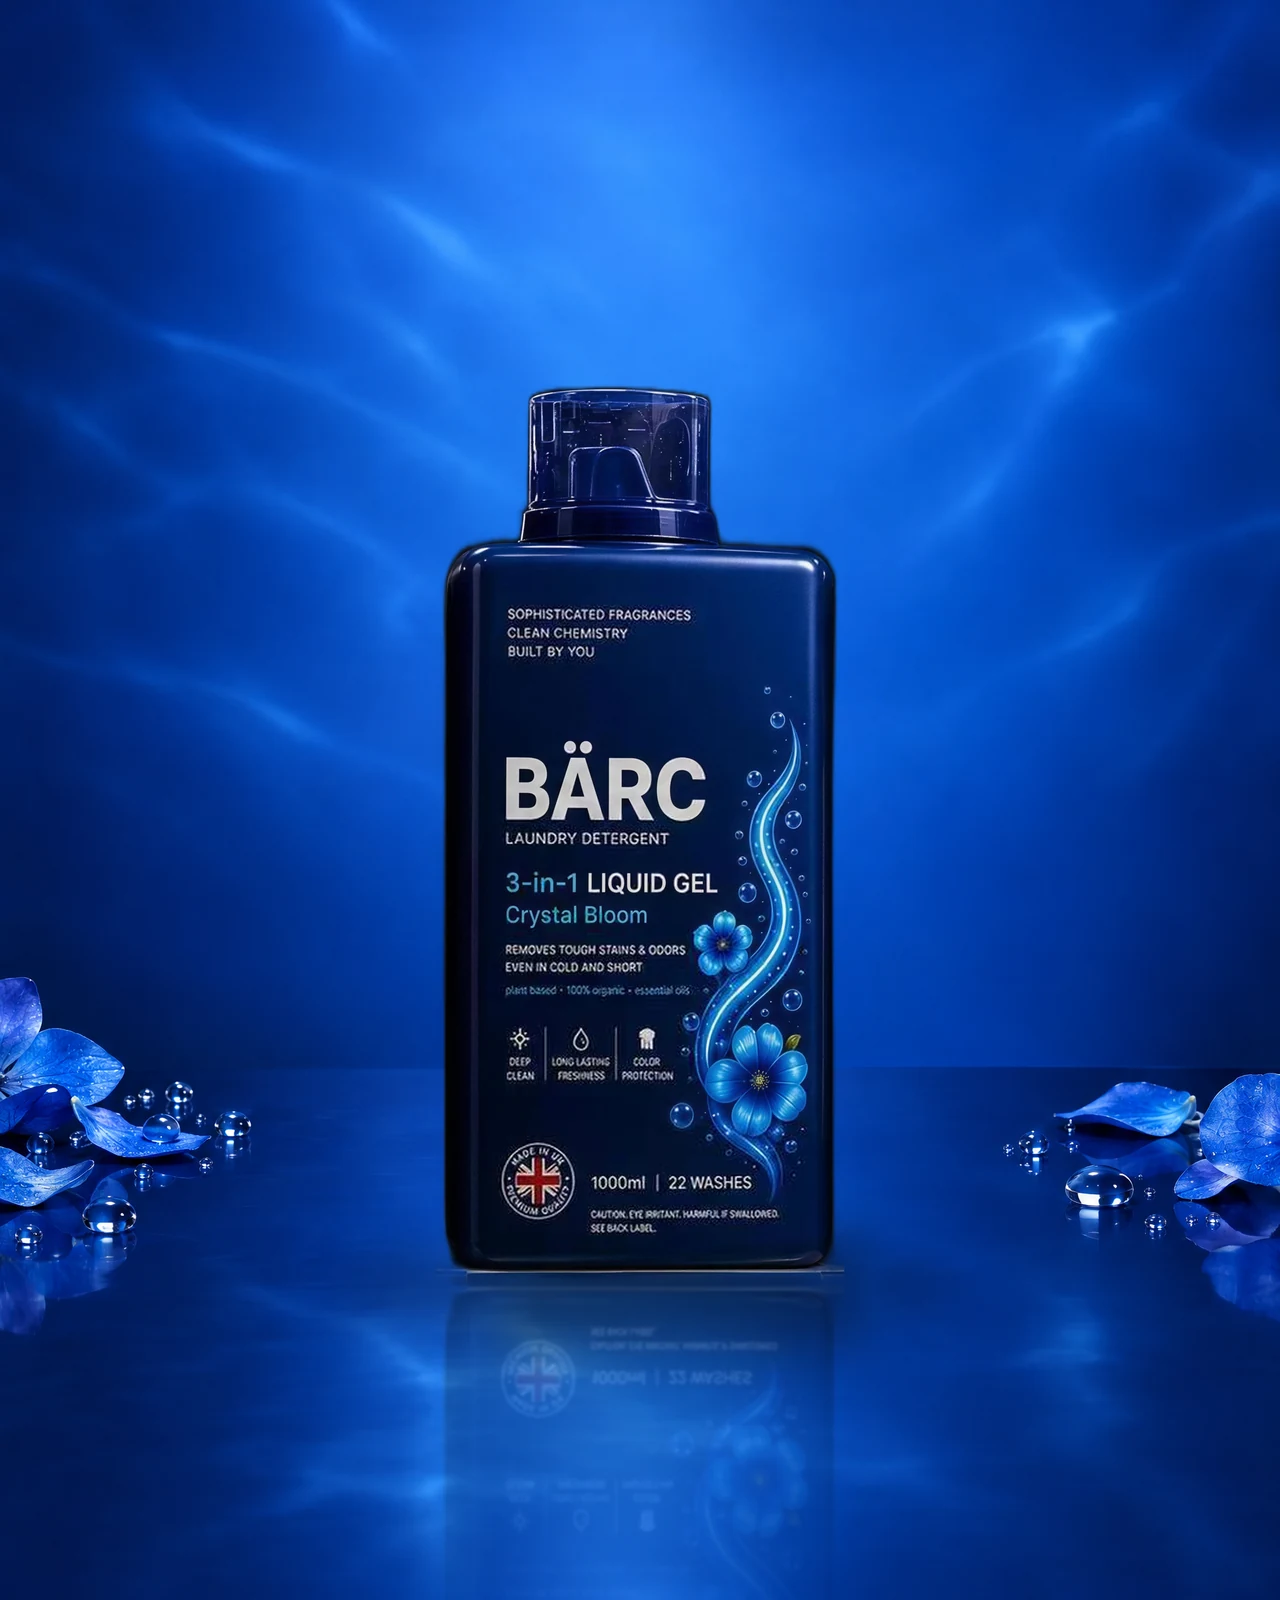
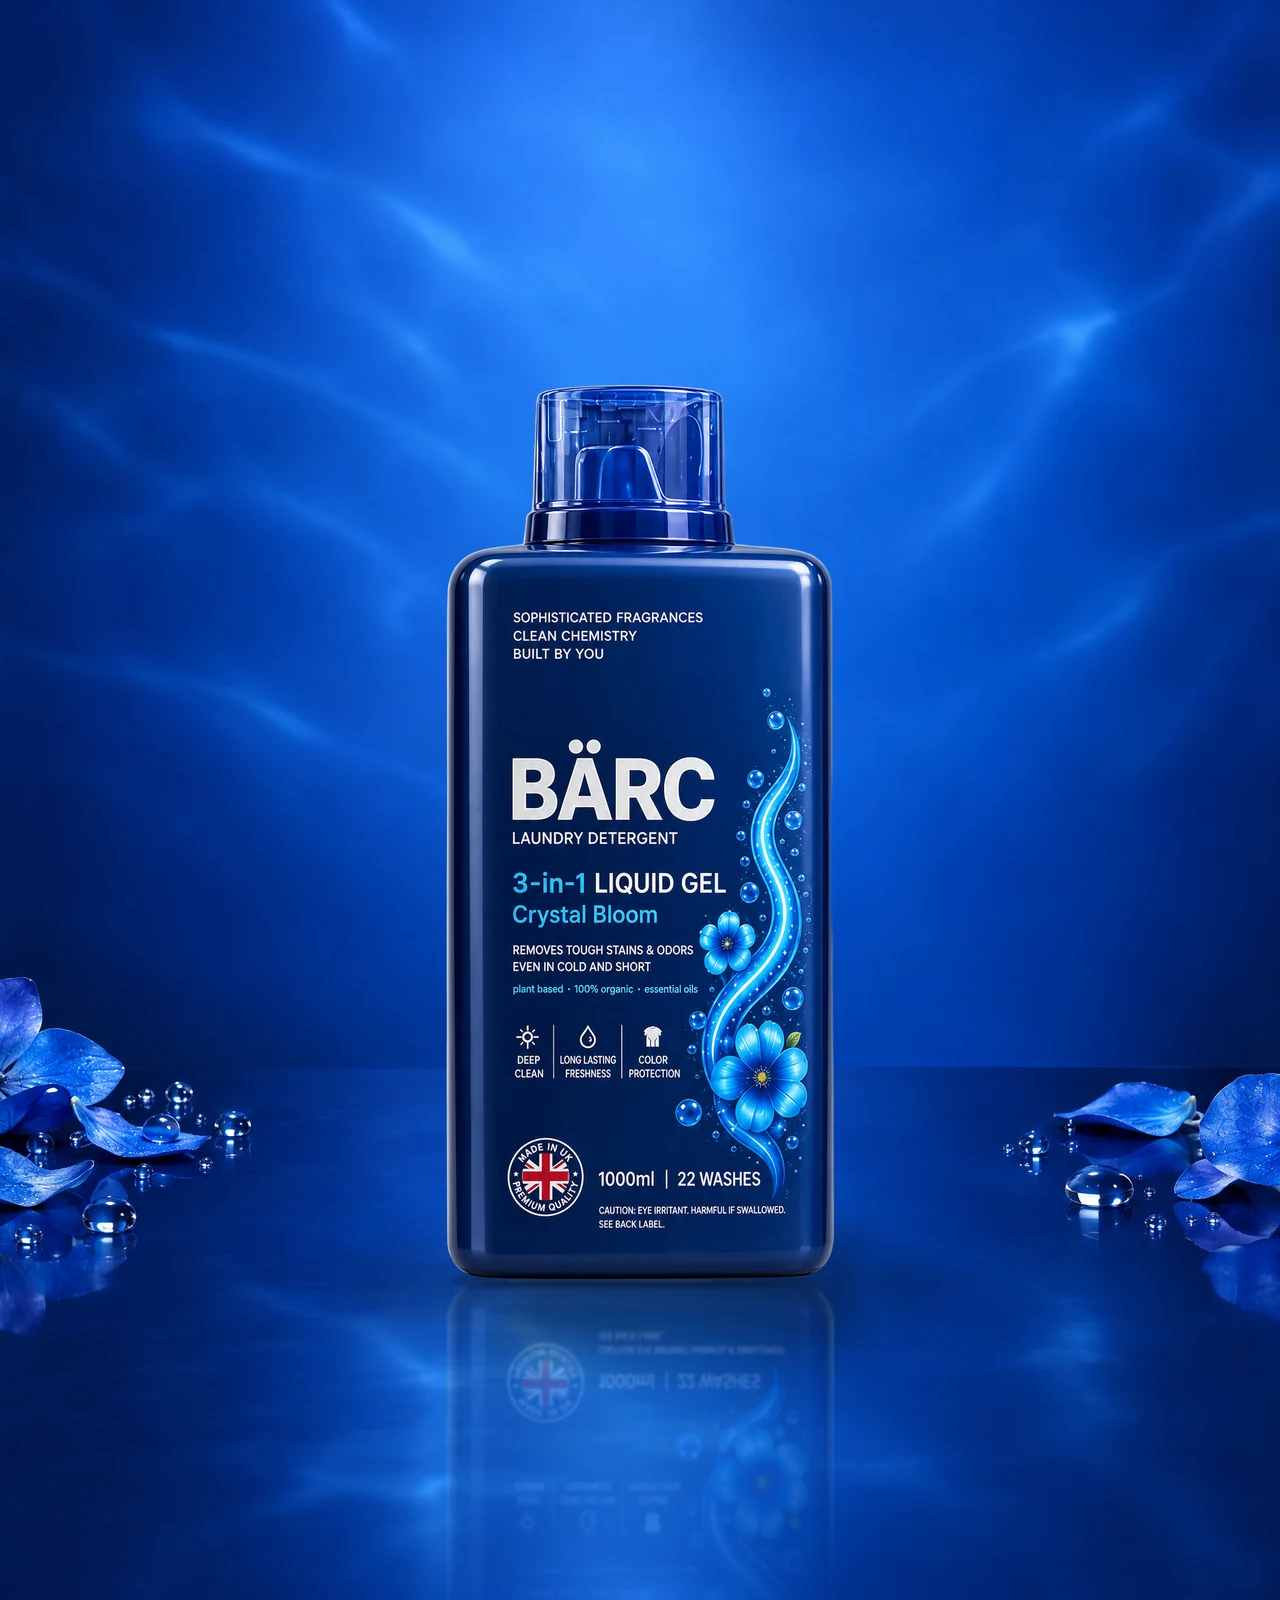
Karuselda barcha mahsulotlar; yangi turkumlar qadog'i Higgsfield'da realistik qayta yaratildi
- Bosh karusel 10 mahsulotni aylantiradi (gel «GEL AMETHYST» bo'lib ajraladi), har birining rangi va musiqasi
- Kapsula hikoyasi va iforlar qatori faqat kapsulalarda; boshqa mahsulot tanlangan bo'lsa oxirgi kapsulaga qaytadi
- 7 qadoq GPT Image 2.5 bilan studiya suratiga aylantirildi, yozuvlar bittalab tekshirildi
  (SOLUPERFUME va «plant based» qatori qayta generatsiya qilinib to'g'rilandi)
- Tabiiy sahnalar yangi qadoqlar bilan qayta yig'ildi, galereyaga studiya surati qo'shildi

Changed region(s): [[0.3438, 0.2188, 0.6562, 0.9062], [0.4062, 0.8438, 0.4688, 0.875]]

diff --git a/public/assets/app.js b/public/assets/app.js
@@ -22,8 +22,8 @@ const TH = {
   booster: { bg: "#2B0F33", bg2: "#120515", surface: "#8A3E9E", accent: "#F0B6F0", glow: "#C764D8" },
 };
 const POD_GAL = (id, photos) => [...photos, [`${id}-studio.webp`, "cap.podStudio"], [`${id}-room.webp`, "cap.podRoom"], [`${id}-scent.webp`, `prod.${id}.g1`]];
-const GEL_GAL = (id) => [[`${id}-studio.webp`, "cap.gelStudio"], ["gel-room.webp", "cap.gelRoom"], ["gel-photo.jpg", "cap.gelPhoto"]];
-const POW_GAL = (id) => [[`${id}-studio.webp`, "cap.powderStudio"], ["powder-room.webp", "cap.powderRoom"], ["powder-photo.jpg", "cap.powderPhoto"]];
+const GEL_GAL = (id) => [[`${id}-studio.webp?v=2`, "cap.gelStudio"], [`${id}-shot.webp`, "cap.shot"], ["gel-room.webp?v=2", "cap.gelRoom"], ["gel-photo.jpg", "cap.gelPhoto"]];
+const POW_GAL = (id) => [[`${id}-studio.webp?v=2`, "cap.powderStudio"], [`${id}-shot.webp`, "cap.shot"], ["powder-room.webp?v=2", "cap.powderRoom"], ["powder-photo.jpg", "cap.powderPhoto"]];
 const FALLBACK = [
   ["amethyst", "Amethyst", "pods", POD_GAL("amethyst", [["amethyst-photos-2.webp", "cap.photosBig"], ["amethyst-photos-1.webp", "cap.photos"]])],
   ["crystal", "Crystal Bloom", "pods", POD_GAL("crystal", [["crystal-photos.webp", "cap.photos"]])],
@@ -34,9 +34,9 @@ const FALLBACK = [
   ["powder-ocean", "Ocean Fresh", "powder", POW_GAL("powder-ocean")],
   ["powder-purple", "Purple Splash", "powder", POW_GAL("powder-purple")],
   ["oxi", "OXI Power", "oxi", [["oxi-photo-front.webp", "cap.oxiFront"], ["oxi-photo-back-1.webp", "cap.oxiBack"], ["oxi-photo-back-2.webp", "cap.oxiBack"],
-    ["oxi-photo-back-3.webp", "cap.oxiBack30"], ["oxi-studio.webp", "cap.oxiStudio"], ["oxi-room.webp", "cap.oxiRoom"]]],
-  ["booster", "Endless Scent", "booster", [["booster-studio.webp", "cap.boosterStudio"], ["booster-room.webp", "cap.boosterRoom"], ["booster-photo.jpg", "cap.boosterPhoto"]]],
-].map(([id, name, line, gal]) => ({ id, name, line, theme: TH[id], img: `assets/img/${id}.webp?v=2`, atmo: `assets/img/${id}-atmo.webp`,
+    ["oxi-photo-back-3.webp", "cap.oxiBack30"], ["oxi-shot.webp", "cap.shot"], ["oxi-studio.webp?v=2", "cap.oxiStudio"], ["oxi-room.webp?v=2", "cap.oxiRoom"]]],
+  ["booster", "Endless Scent", "booster", [["booster-studio.webp?v=2", "cap.boosterStudio"], ["booster-shot.webp", "cap.shot"], ["booster-room.webp?v=2", "cap.boosterRoom"], ["booster-photo.jpg", "cap.boosterPhoto"]]],
+].map(([id, name, line, gal]) => ({ id, name, line, theme: TH[id], img: `assets/img/${id}.webp?v=${line === "pods" ? 2 : 3}`, atmo: `assets/img/${id}-atmo.webp`,
   gallery: gal.map(([f, k]) => ({ src: `assets/img/${f}`, cap: CAP(k) })) }));
 
 async function loadSite() {
@@ -72,23 +72,28 @@ const mq = matchMedia("(max-width: 860px)");
 let isMobile = mq.matches;
 
 /* ---------------- Turkumlar ----------------
-   Kapsulalar (pods) — bosh karusel va iforlar qatori. Qolgan turkumlar — brend qatorida va o'z bloklarida. */
+   Bosh karusel — barcha mahsulotlar (kapsuladan ifor kuchaytirgichgacha). Iforlar qatori va kapsula
+   hikoyasi — faqat kapsulalar. Qolgan turkumlar brend qatorida va o'z bloklarida ham turadi. */
 const LINE_ORDER = ["pods", "gel", "powder", "oxi", "booster"];
 const LINE_SEAT = ["booster", "gel", "pods", "powder", "oxi"]; // brend qatorida chapdan o'ngga
 const lineIdx = (l) => PRODUCTS.map((p, i) => (p.line === l ? i : -1)).filter((i) => i >= 0);
-let CAR = lineIdx("pods"); if (!CAR.length) CAR = PRODUCTS.map((_, i) => i);
+let POD = lineIdx("pods"); if (!POD.length) POD = PRODUCTS.map((_, i) => i);
+const P = POD.length;
+const podIdx = (i) => POD.indexOf(i);
+const isPod = (i) => podIdx(i) >= 0;
+const CAR = PRODUCTS.map((_, i) => i);
 const C = CAR.length;
 const carIdx = (i) => CAR.indexOf(i);
-const LINES = C === N ? [] : LINE_ORDER.filter((l) => l !== "pods" && lineIdx(l).length);
+const LINES = P === N ? [] : LINE_ORDER.filter((l) => l !== "pods" && lineIdx(l).length);
 const FAM = LINE_SEAT.filter((l) => lineIdx(l).length);
 const REP_PREF = { gel: "gel-original", powder: "powder-ocean" };
 const OFF = 6; // karuseldan tashqari — ko'rinmaydi
 const pad2 = (n) => String(n).padStart(2, "0");
 
 /* ---------------- Store ---------------- */
-const store = { active: CAR[0], car: CAR[0], theme: CAR[0], section: "brand", lang: "uz", soundOn: false, view: "home", hover: -1, loaded: false, variant: {} };
+const store = { active: POD[0], car: POD[0], pod: POD[0], theme: POD[0], section: "brand", lang: "uz", soundOn: false, view: "home", hover: -1, loaded: false, variant: {} };
 function lineLead(l) {
-  if (l === "pods") return CAR.includes(store.car) ? store.car : CAR[0];
+  if (l === "pods") return isPod(store.pod) ? store.pod : POD[0];
   const ids = lineIdx(l), pref = PRODUCTS.findIndex((p) => p.id === REP_PREF[l]);
   return ids.includes(pref) ? pref : ids[0];
 }
@@ -193,14 +198,16 @@ function slotTarget(j, a) {
   const cj = carIdx(j); if (cj < 0) return OFF;
   let d = (cj - ca + C) % C; if (d > C / 2) d -= C; return d;
 }
-const slots = PRODUCTS.map((_, i) => slotTarget(i, CAR[0]));
+const slots = PRODUCTS.map((_, i) => slotTarget(i, POD[0]));
 const hoverAmt = PRODUCTS.map(() => 0);
 const wasVis = PRODUCTS.map(() => true);
 const hK = PRODUCTS.map(() => 1), wK = PRODUCTS.map(() => 1); // qadoqning ko'rinadigan bo'yi/eni (.prod qutisiga nisbatan)
 const stepCar = (dlt) => CAR[(carIdx(store.car) + dlt + C) % C];
-// Qatorda (range) mahsulotlar ko'p bo'lsa — oraliq va o'lcham moslashadi
-const rowGap = () => isMobile ? Math.min(31, 76 / Math.max(1, C - 1)) : Math.min(28, 72 / Math.max(1, C - 1));
-const rowK = C <= 3 ? 1 : 3 / C;
+// Qatorda (range, faqat kapsulalar) mahsulotlar ko'p bo'lsa — oraliq va o'lcham moslashadi
+const rowGap = () => isMobile ? Math.min(31, 76 / Math.max(1, P - 1)) : Math.min(28, 72 / Math.max(1, P - 1));
+const rowK = P <= 3 ? 1 : 3 / P;
+// Karuseldagi katta nom: kapsula bilan bir xil nomli gel «GEL AMETHYST» bo'lib chiqadi
+const heroName = (p) => { const pre = p.line === "pods" ? "" : (t(`line.${p.line}.top`) || "").replace(/^BÄRC\s*/i, ""); return (pre ? pre + " " : "") + p.name; };
 
 /* ---------------- Render (har kadr) ---------------- */
 (() => {
@@ -210,6 +217,7 @@ const rowK = C <= 3 ? 1 : 3 / C;
     stage.insertAdjacentHTML("beforeend", `<i class="floor-shadow"></i>`);
     stage.insertAdjacentHTML("beforeend", `<div class="prod" data-i="${i}"><img src="${p.img}" alt="" draggable="false"></div>`);
   });
+  dots.classList.toggle("is-many", C > 5);
   dots.innerHTML = CAR.map((i) => `<button type="button" role="tab" data-go="${i}" aria-label="${PRODUCTS[i].name.replace(/"/g, "")}" data-cursor></button>`).join("");
   // Kontaktlar (admin → Sozlamalar)
   const c = SITE.contacts, links = [];
@@ -248,14 +256,14 @@ function render() {
   const w = Math.max(R.fam, R.set), useFam = R.fam >= R.set;
   prodEls.forEach((el, i) => {
     // Karuselda — faol mahsulotga nisbatan; qatorda — o'z tartibi bo'yicha, markazdan teng
-    const ci = carIdx(i);
-    const o = lerp(slots[i], ci >= 0 ? ci - (C - 1) / 2 : OFF, R.row), ao = Math.abs(o), c = clamp(1 - ao, 0, 1);
+    const pi = podIdx(i);
+    const o = lerp(slots[i], pi >= 0 ? pi - (P - 1) / 2 : OFF, R.row), ao = Math.abs(o), c = clamp(1 - ao, 0, 1);
     hoverAmt[i] = lerp(hoverAmt[i], store.hover === i ? 1 : 0, k);
     const bob = reduced ? 0 : Math.sin(t * 1.1 + i * 1.7) * 10 * R.bob;
     let X = d * (R.x * c + o * gap) * vw;
     let yB = (R.y * lerp(1, c, R.row) + o * R.row * -4) * vh; // karuselda yon qadoqlar ham markaz bilan bir chiziqda
     let sc = lerp(sideS, R.scale, c) * (1 + hoverAmt[i] * .07) * lerp(1, rowK, R.row);
-    let op = lerp(sideOp, 1, c) * R.op * lerp(clamp(2 - ao, 0, 1), clamp(C / 2 + .6 - ao, 0, 1), R.row);
+    let op = lerp(sideOp, 1, c) * R.op * lerp(clamp(2 - ao, 0, 1), clamp(P / 2 + .6 - ao, 0, 1), R.row);
     let blur = lerp(sideBlur, 0, c);
     let rz = d * (R.rz * c + o * R.row * 3), ry = d * R.ry * c, z = 10 - Math.round(Math.min(ao, 3) * 3);
     // Brend qatori yoki turkum bloki: har qadoq o'z joyida, pastki cheti bitta polda
@@ -407,16 +415,17 @@ function themeTransition(i, instant) {
 function hexRgb(h) { const n = parseInt(h.slice(1), 16); return { r: n >> 16, g: (n >> 8) & 255, b: n & 255 }; }
 
 /* ---------------- Faol mahsulot ---------------- */
-const heroName = $("#hero-name");
+const heroNameEl = $("#hero-name");
 function setActive(i, opts = {}) {
   i = ((i % N) + N) % N;
   const prev = store.active;
   if (i === prev && !opts.force) return;
   store.active = i;
   // Kapsula ↔ boshqa turkum: karusel o'rinlari sakrab almashadi (sahnada baribir ko'rinmaydi)
-  const cross = carIdx(prev) < 0 || carIdx(i) < 0;
-  const carChanged = carIdx(i) >= 0 && i !== store.car;
-  if (carIdx(i) >= 0) store.car = i;
+  const cross = carIdx(prev) < 0 || carIdx(i) < 0 || opts.snap;
+  const carChanged = i !== store.car;
+  store.car = i;
+  if (isPod(i)) store.pod = i;
   PRODUCTS.forEach((_, j) => {
     const from = slots[j], to = slotTarget(j, i);
     gsap.killTweensOf(slots, String(j));
@@ -432,7 +441,7 @@ function setActive(i, opts = {}) {
     }
   });
   themeTransition(i, opts.instant);
-  if (carChanged || opts.force) { updateHeroText(!opts.instant); FAMP = famLayout(); renderBrand(); }
+  if (carChanged || opts.force) { updateHeroText(!opts.instant && !opts.snap); FAMP = famLayout(); renderBrand(); }
   updateProductText();
   renderRange();
   tick();
@@ -446,19 +455,21 @@ const variantOf = (p) => { const v = packsOf(p); return v[clamp(store.variant[p.
 function updateHeroText(animate) {
   const p = PRODUCTS[store.car];
   const swap = () => {
-    heroName.textContent = p.name.toUpperCase();
-    heroName.parentElement.style.fontSize = `${Math.min(21, 90 / (p.name.length * .56)).toFixed(2)}vw`;
+    const nm = heroName(p);
+    heroNameEl.textContent = nm.toUpperCase();
+    heroNameEl.parentElement.style.fontSize = `${Math.min(21, 90 / (nm.length * .56)).toFixed(2)}vw`;
   };
   if (animate && !reduced) {
     gsap.timeline()
-      .to(heroName, { yPercent: -40, opacity: 0, duration: .3, ease: "power2.in" })
+      .to(heroNameEl, { yPercent: -40, opacity: 0, duration: .3, ease: "power2.in" })
       .add(swap)
-      .fromTo(heroName, { yPercent: 40, opacity: 0 }, { yPercent: 0, opacity: 1, duration: .55, ease: EASE_IN });
+      .fromTo(heroNameEl, { yPercent: 40, opacity: 0 }, { yPercent: 0, opacity: 1, duration: .55, ease: EASE_IN });
   } else swap();
   $("#hero-line").textContent = t(`prod.${p.id}.line`);
-  $("#peek-prev").textContent = PRODUCTS[stepCar(-1)].name;
-  $("#peek-next").textContent = PRODUCTS[stepCar(1)].name;
+  $("#peek-prev").textContent = heroName(PRODUCTS[stepCar(-1)]);
+  $("#peek-next").textContent = heroName(PRODUCTS[stepCar(1)]);
   $("#hero-idx").textContent = `${pad2(carIdx(store.car) + 1)} / ${pad2(C)}`;
+  $("#hero-kick").textContent = p.line === "pods" ? t("hero.kicker") : [t(`line.${p.line}.short`), lt(p.line, "meta")].filter(Boolean).join(" · ");
   $$(".hero-dots [data-go]").forEach((b) => b.setAttribute("aria-selected", String(+b.dataset.go === store.car)));
 }
 function updateProductText() {
@@ -495,7 +506,7 @@ const rangeHits = $("#range-hits");
 function renderRange() {
   if (!rangeHits) return;
   if (!rangeHits.children.length) {
-    rangeHits.innerHTML = CAR.map((j) =>
+    rangeHits.innerHTML = POD.map((j) =>
       `<a class="rhit" href="#/${PRODUCTS[j].id}" data-j="${j}" data-cursor><span class="rhit-label"><span class="rhit-name">${PRODUCTS[j].name}</span><span class="rhit-more mono"></span></span></a>`).join("");
     $$(".rhit", rangeHits).forEach((a) => {
       const j = +a.dataset.j;
@@ -508,7 +519,7 @@ function renderRange() {
   }
   const gap = rowGap();
   $$(".rhit", rangeHits).forEach((a) => {
-    const o = carIdx(+a.dataset.j) - (C - 1) / 2;
+    const o = podIdx(+a.dataset.j) - (P - 1) / 2;
     a.style.left = `calc(50% + ${dirSign() * o * gap}vw)`;
     a.style.top = `calc(50% + ${o * -4}vh)`;
     $(".rhit-more", a).textContent = t("range.more") + " →";
@@ -546,8 +557,17 @@ if (bhits) {
   bhits.addEventListener("pointerleave", () => { store.hover = -1; themeTransition(sectionTheme()); });
   bhits.addEventListener("click", (e) => {
     const a = e.target.closest('.bhit[data-line="pods"]'); if (!a) return;
-    e.preventDefault(); store.hover = -1; scrollTo(topOf($("#s-hero")));
+    e.preventDefault(); store.hover = -1; toPods();
   });
+}
+// «Kapsula» va «Pastga — kapsulalardan boshlaymiz»: karusel oxirgi tanlangan kapsulada ochiladi
+function toPods() {
+  if (!isPod(store.active)) setActive(store.pod);
+  scrollTo(topOf($("#s-hero")));
+}
+{
+  const bs = $(".brand-scroll");
+  if (bs) bs.addEventListener("click", (e) => { e.preventDefault(); toPods(); });
 }
 
 const linesBox = $("#lines");
@@ -588,6 +608,7 @@ function renderLineChips() {
     el.innerHTML = v.map((x) => `<span>${esc(x)}</span>`).join("");
   });
 }
+const POD_SECS = ["zoom", "b1", "b2", "b3", "b4", "solo", "usage", "range"];
 // Bo'limga mos mavzu: turkum blokida — o'sha turkum, boshqa joyda — faol mahsulot
 const sectionTheme = () => (store.view === "home" && store.section.startsWith("line-") ? lineLead(store.section.slice(5)) : store.active);
 
@@ -684,6 +705,8 @@ function setSection(label) {
   $$("button", bnav).forEach((b, i) => b.classList.toggle("is-active", i === bi));
   if (store.view !== "home") return;
   if (label.startsWith("line-")) applyLineLayout(label.slice(5));
+  // «Nega kapsula?» … «Iforlar» — kapsula hikoyasi: karuselda boshqa mahsulot tanlangan bo'lsa, oxirgi kapsulaga qaytadi
+  if (POD_SECS.includes(label) && !isPod(store.active)) { R.op = 0; setActive(store.pod, { snap: true }); }
   if (store.hover < 0) themeTransition(sectionTheme());
 }
 $$("button", bnav).forEach((b, i) => b.addEventListener("click", () => scrollTo(topOf($(`#s-b${i + 1}`)))));
@@ -1300,11 +1323,11 @@ async function boot() {
   const nav = (navigator.language || "uz").slice(0, 2);
   applyLang(saved || (LANGS.includes(nav) ? nav : "uz"));
   sizeCanvas();
-  setActive(CAR[0], { instant: true, force: true });
+  setActive(POD[0], { instant: true, force: true });
 
   const pctEl = $("#loader-pct"), shown = { v: 0 };
   // Birinchi ekranda ko'rinadiganlar kutiladi, qolganlari fonda yuklanadi
-  const assets = [...new Set([...CAR, ...FAM.map(lineLead)])].map((i) => PRODUCTS[i].img);
+  const assets = [...new Set([...POD, ...FAM.map(lineLead)])].map((i) => PRODUCTS[i].img);
   let done = 0; const total = assets.length + 1;
   const bump = () => { done++; gsap.to(shown, { v: done / total * 100, duration: .6, ease: "power2.out", overwrite: true }); };
   const strokeTo = gsap.quickTo(".ll-stroke", "strokeDashoffset", { duration: .6, ease: "power2.out" });

diff --git a/public/assets/style.css b/public/assets/style.css
@@ -224,6 +224,11 @@ html[lang="ar"] .old s { font-family: var(--f-body); letter-spacing: 0; }
 .hero-dots button { width: 44px; height: 24px; display: grid; place-items: center; }
 .hero-dots button::after { content: ""; width: 24px; height: 2px; background: var(--line); transition: background .4s, width .4s; }
 .hero-dots button[aria-selected="true"]::after { background: #fff; width: 40px; }
+/* Karuselda mahsulot ko'p — nuqtalar ixchamroq */
+.hero-dots.is-many { gap: 2px; }
+.hero-dots.is-many button { width: 28px; }
+.hero-dots.is-many button::after { width: 14px; }
+.hero-dots.is-many button[aria-selected="true"]::after { width: 24px; }
 .scroll-cue { position: absolute; inset-inline-end: var(--s5); bottom: var(--s6); color: var(--muted); margin: 0; writing-mode: vertical-rl; }
 
 /* ---------------- 1-ekran: brend va oila qatori ---------------- */
@@ -448,7 +453,7 @@ html[lang="ar"] #menu a { line-height: 1.3; }
   .hero-name { top: 84px; }
   .brand-top { top: 84px; }
   .brand-k { margin-bottom: var(--s1); }
-  .brand-title { font-size: min(10.4vw, 6.2svh, 56px); }
+  .brand-title { font-size: min(9.2vw, 6.2svh, 56px); }
   .bhit-label { max-width: 24vw; top: calc(100% + var(--s1)); }
   .bhit-label .mono { display: none; }
   .bhit-label b { font-size: var(--t-14); }
@@ -474,6 +479,10 @@ html[lang="ar"] #menu a { line-height: 1.3; }
   .hero-line { font-size: var(--t-16); max-width: 28ch; }
   .hero-bar { bottom: var(--s3); grid-template-columns: 1fr auto; }
   .hero-bar p:first-child { display: none; }
+  .hero-dots.is-many { gap: 0; }
+  .hero-dots.is-many button { width: 20px; }
+  .hero-dots.is-many button::after { width: 10px; }
+  .hero-dots.is-many button[aria-selected="true"]::after { width: 18px; }
   .scroll-cue { display: none; }
   #bnav { inset-inline-end: var(--s2); top: 96px; translate: none; grid-auto-flow: column; gap: var(--s1); }
   #bnav button { width: 40px; height: 40px; }

diff --git a/public/assets/i18n.js b/public/assets/i18n.js
@@ -589,7 +589,8 @@ window.I18N = {
       "cap.oxiRoom": "Oq kiyim oppoq, rangli — yorqin",
       "cap.boosterStudio": "Bir qoshiq — haftalab ifor",
       "cap.boosterRoom": "Choyshab va sochiq doim xushbo‘y",
-      "cap.boosterPhoto": "6 xil ifor va 3 xil hajm"
+      "cap.boosterPhoto": "6 xil ifor va 3 xil hajm",
+      "cap.shot": "Qadoq yaqindan — studiya surati"
     },
 
     ru: {
@@ -738,7 +739,8 @@ window.I18N = {
       "cap.oxiRoom": "Белое — белоснежное, цветное — яркое",
       "cap.boosterStudio": "Одна ложка — аромат на недели",
       "cap.boosterRoom": "Постельное и полотенца всегда свежие",
-      "cap.boosterPhoto": "6 ароматов и 3 размера"
+      "cap.boosterPhoto": "6 ароматов и 3 размера",
+      "cap.shot": "Упаковка крупным планом — студийное фото"
     },
 
     en: {
@@ -887,7 +889,8 @@ window.I18N = {
       "cap.oxiRoom": "Whites whiter, colours brighter",
       "cap.boosterStudio": "One scoop, weeks of freshness",
       "cap.boosterRoom": "Linen and towels that stay fresh",
-      "cap.boosterPhoto": "6 scents and 3 sizes"
+      "cap.boosterPhoto": "6 scents and 3 sizes",
+      "cap.shot": "The pack up close — studio shot"
     },
 
     ar: {
@@ -1036,7 +1039,8 @@ window.I18N = {
       "cap.oxiRoom": "الأبيض ناصع والألوان زاهية",
       "cap.boosterStudio": "مغرفة واحدة — انتعاش لأسابيع",
       "cap.boosterRoom": "مفارش ومناشف تبقى منعشة",
-      "cap.boosterPhoto": "6 عطور و3 أحجام"
+      "cap.boosterPhoto": "6 عطور و3 أحجام",
+      "cap.shot": "العبوة عن قرب — صورة استوديو"
     }
   };
   for (const l in ADD) Object.assign(window.I18N[l], ADD[l]);

diff --git a/public/index.html b/public/index.html
@@ -15,7 +15,7 @@
 <link rel="preconnect" href="https://fonts.googleapis.com">
 <link rel="preconnect" href="https://fonts.gstatic.com" crossorigin>
 <link href="https://fonts.googleapis.com/css2?family=Oswald:wght@500;700&family=Inter:wght@400;500;600&family=Cairo:wght@500;700;900&display=swap" rel="stylesheet">
-<link rel="stylesheet" href="assets/style.css?v=24">
+<link rel="stylesheet" href="assets/style.css?v=26">
 <script type="application/ld+json">
 {"@context":"https://schema.org","@type":"ItemList","itemListElement":[
 {"@type":"Product","position":1,"name":"BÄRC 3in1 PODS Amethyst","brand":{"@type":"Brand","name":"BÄRC"},"image":"assets/img/amethyst.webp"},
@@ -136,7 +136,7 @@
     </div>
 
     <div class="hero-bar">
-      <p class="mono"><span id="hero-idx">01 / 03</span> · <span data-i18n="hero.kicker"></span></p>
+      <p class="mono"><span id="hero-idx">01 / 10</span> · <span id="hero-kick"></span></p>
       <div class="hero-dots" role="tablist"></div>
       <p class="mono hero-swipe"><span aria-hidden="true">←</span> <span data-i18n="hero.swipe"></span> <span aria-hidden="true">→</span></p>
     </div>
@@ -402,7 +402,7 @@
 <script src="https://cdnjs.cloudflare.com/ajax/libs/gsap/3.12.5/gsap.min.js"></script>
 <script src="https://cdnjs.cloudflare.com/ajax/libs/gsap/3.12.5/ScrollTrigger.min.js"></script>
 <script src="https://cdn.jsdelivr.net/npm/lenis@1.1.18/dist/lenis.min.js"></script>
-<script src="assets/i18n.js?v=24"></script>
-<script src="assets/app.js?v=24"></script>
+<script src="assets/i18n.js?v=26"></script>
+<script src="assets/app.js?v=26"></script>
 </body>
 </html>

diff --git a/public/admin/index.html b/public/admin/index.html
@@ -16,7 +16,7 @@
 <body>
 <div id="root"><div class="loading"><span class="spinner"></span></div></div>
 <div class="toasts" id="toasts" aria-live="polite"></div>
-<script src="../assets/i18n.js?v=23"></script>
+<script src="../assets/i18n.js?v=25"></script>
 <script src="admin.js?v=3"></script>
 </body>
 </html>
